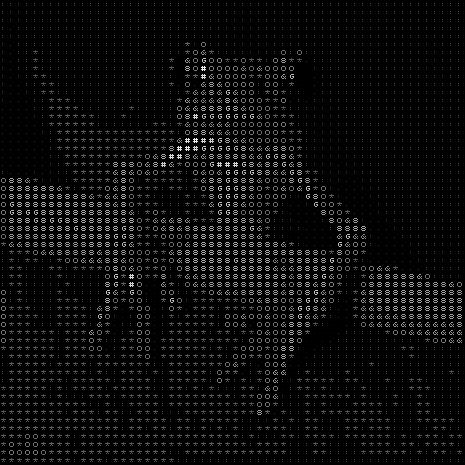
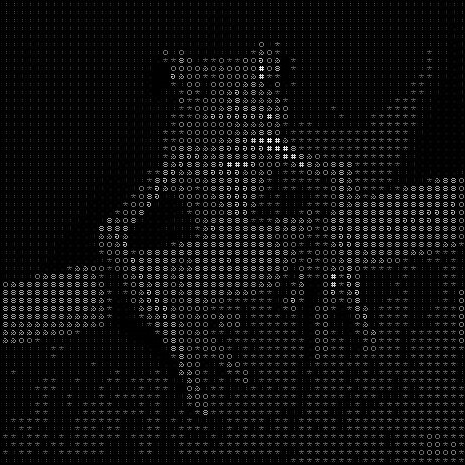
GLSL で画像にフィルタをかけてみるテスト（改6）

diff --git a/cx20/z1SB/index.html b/cx20/z1SB/index.html
@@ -39,6 +39,7 @@ float character(float n, vec2 p) // some compilers have the word "char" reserved
 void main()
 {
     vec2 uv = gl_FragCoord.xy;
+    uv.x = -uv.x;  // TODO: Investigate where to reverse
     vec3 col = texture2D(texture, -floor(uv/8.0)*8.0/resolution.xy).rgb;    
     
     float gray = (col.r + col.g + col.b)/3.0;
@@ -52,8 +53,8 @@ void main()
     if (gray > 0.8) n = 11512810.0; // #
     
     vec2 p = mod(uv/4.0, 2.0) - vec2(1.0);
-    col = gray * vec3(character(n, p));
-    //col = col * character(n, p);
+    //col = gray * vec3(character(n, p));
+    col = col * character(n, p);
     
     gl_FragColor = vec4(col, 1.0);
 }
